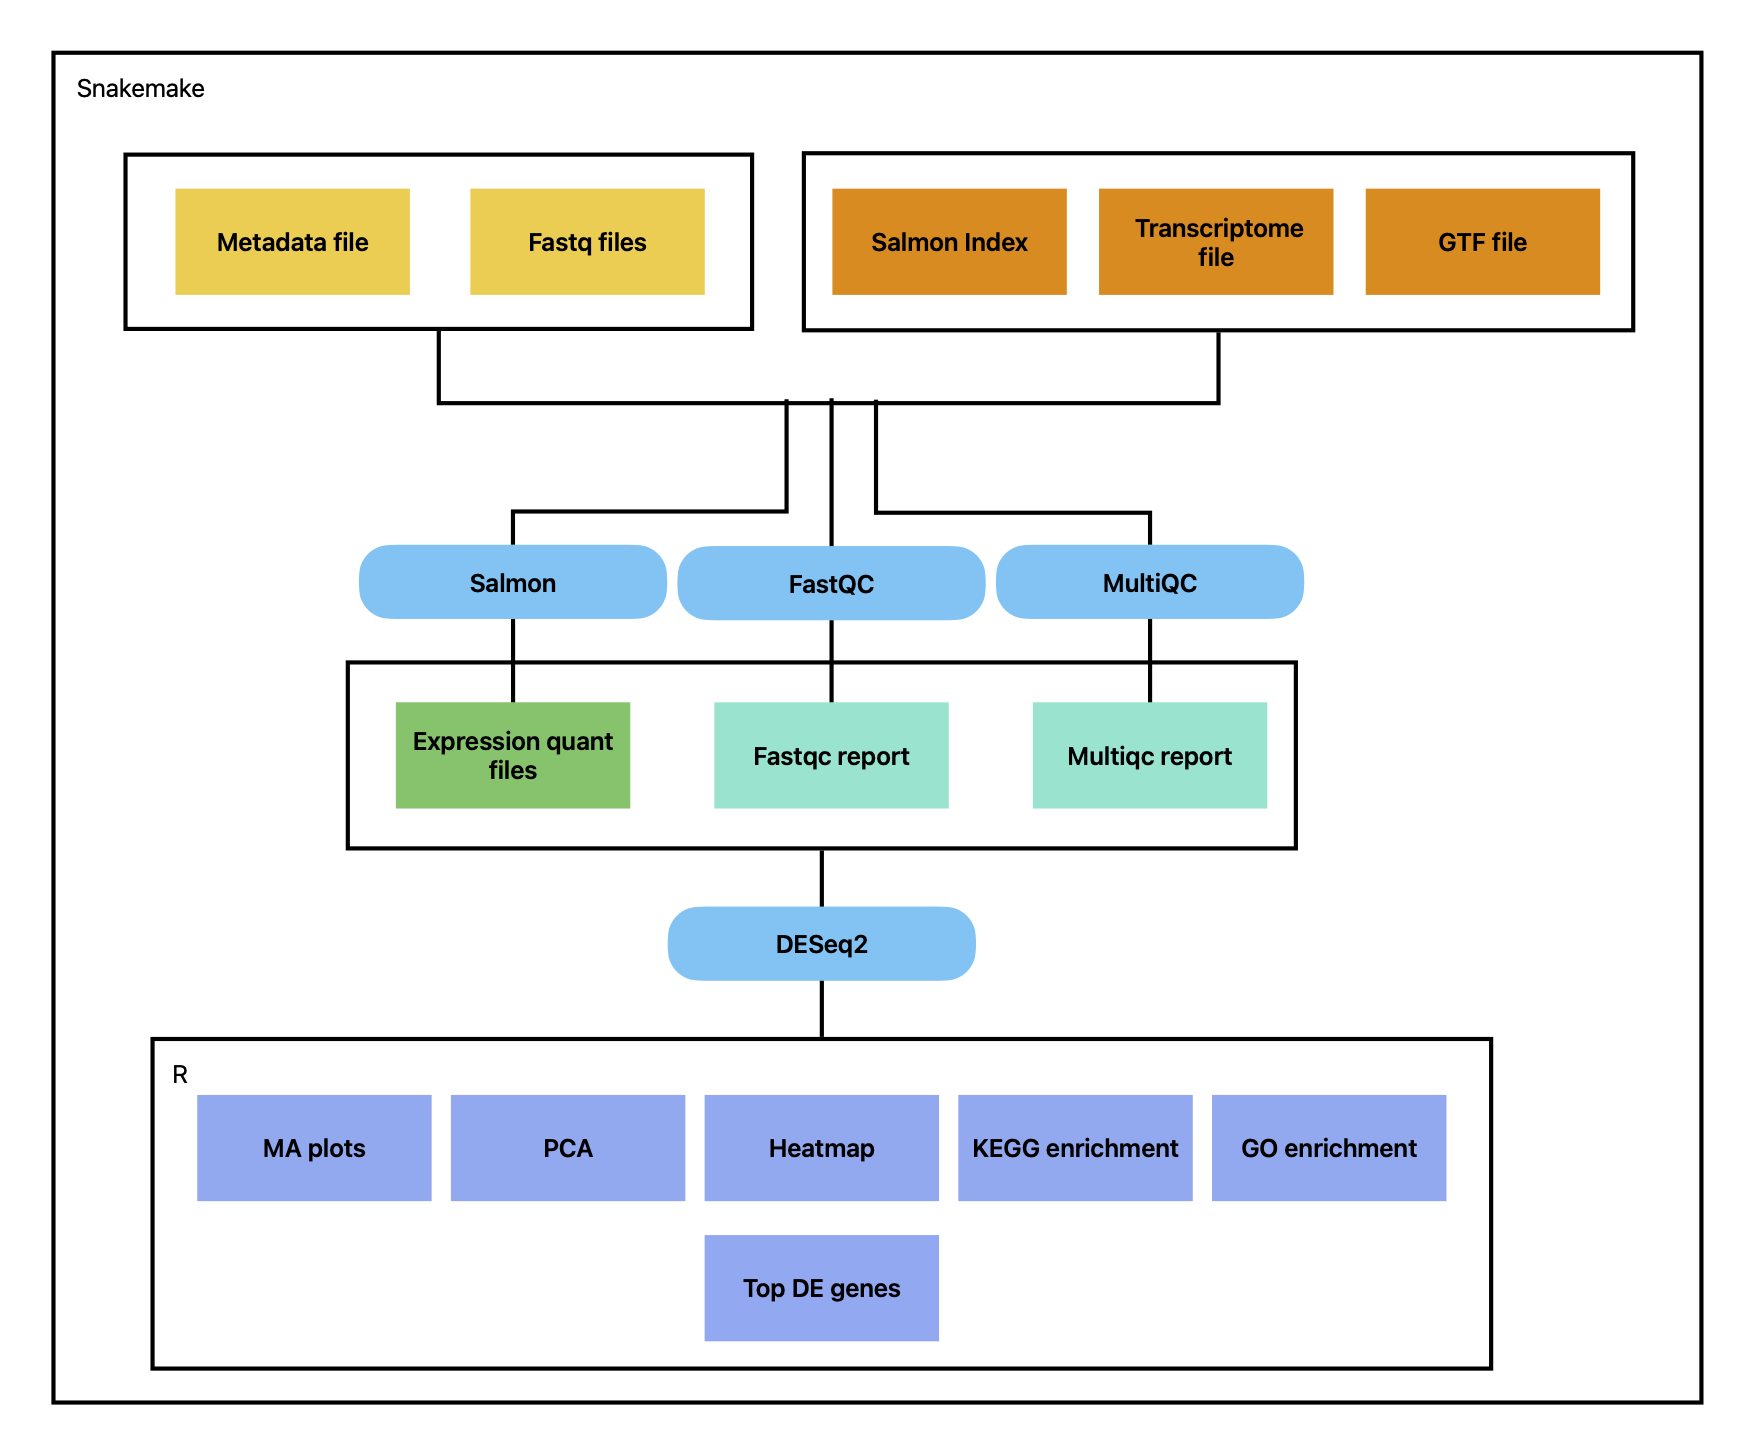
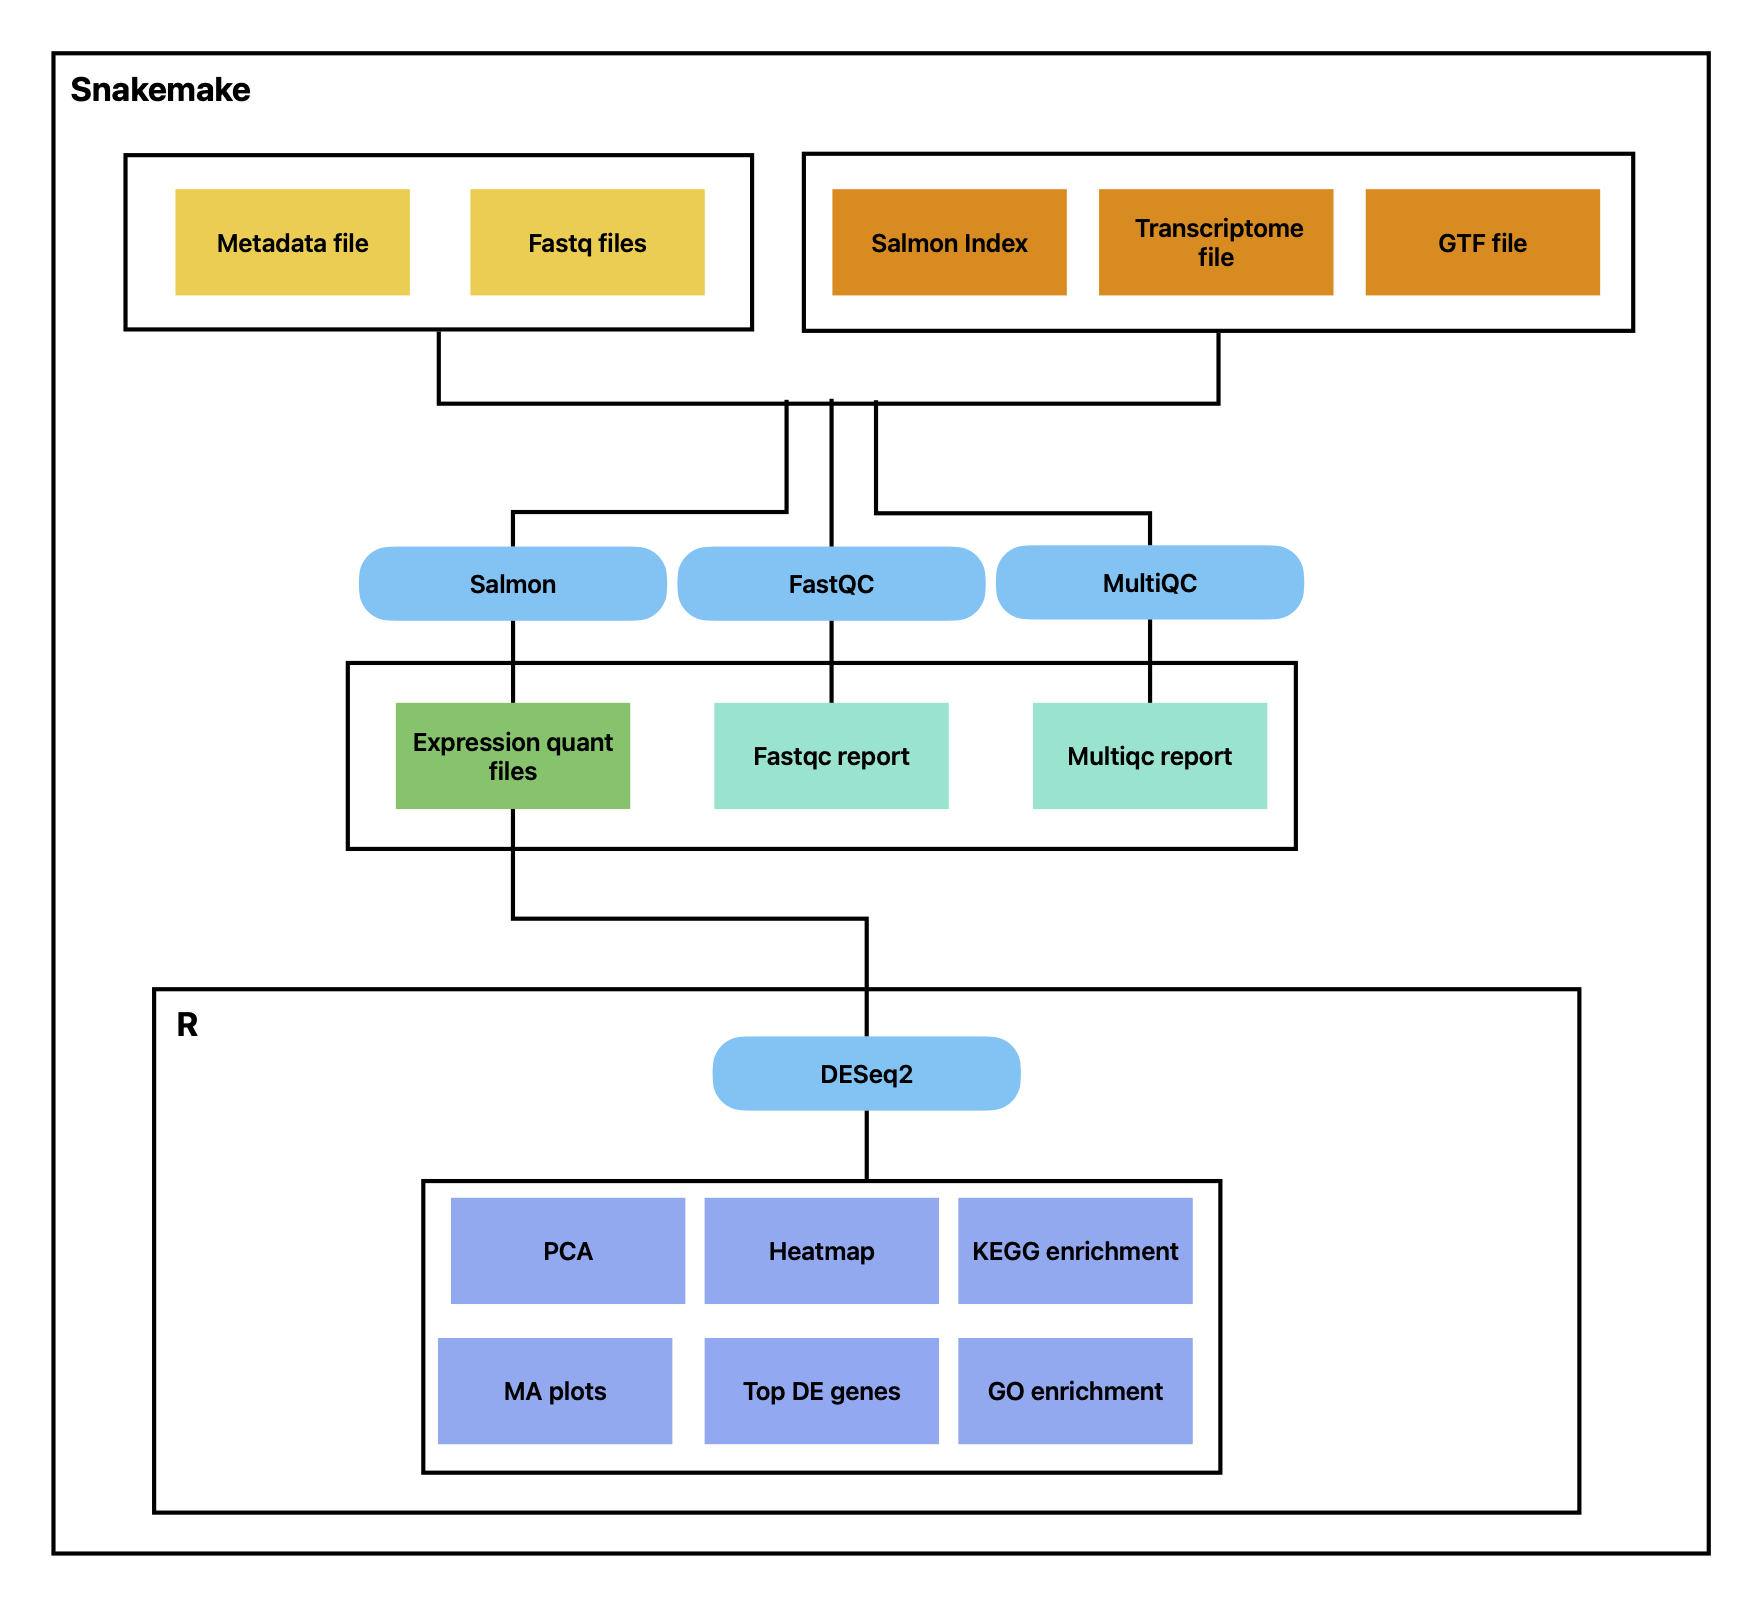
adjustemnt for paired fqs

diff --git a/README.md b/README.md
@@ -5,7 +5,7 @@
 - Conda, Snakemake, R
 
 ## Description: 
-- This pipeline performs end-to-end RNA-seq analysis, starting from raw FASTQ files. It generates quant.sf files using Salmon and then runs a DESeq2 workflow on the quantifications to produce a comprehensive analysis report. The report, delivered in HTML format, includes MA plots, PCA plots, heatmaps, and KEGG/GO enrichment analyses. In addition, the pipeline extracts and reports the top three differentially expressed genes for each contrast (e.g., control vs. condition 1, condition 2, etc.). All steps (including DESeq2) is run in Snakemake. The user only needs to provide 1) complete metadata file e.g file in [samples.xlsx](/metadata/samples_example.xlsx), 2)required raw and reference files and 3) updated [config.yaml] file to reflect the names and path of the files. The results will be generated in /results folder (see organization below) and the DESeq2 analysis and KEGG and GO enrichement results are produced in a HTML report. Example report can be viewed [here](/results/deseq/deseq_analysis_example.html)
+- This pipeline performs end-to-end RNA-seq analysis, starting from raw FASTQ files. It generates quant.sf files using Salmon and then runs a DESeq2 workflow on the quantifications to produce a comprehensive analysis report. The report, delivered in HTML format, includes MA plots, PCA plots, heatmaps, and KEGG/GO enrichment analyses. In addition, the pipeline extracts and reports the top three differentially expressed genes for each contrast (e.g., control vs. condition 1, condition 2, etc.). All steps (including DESeq2) is run in Snakemake. The user only needs to provide 1) complete metadata file e.g file in [samples.xlsx](/metadata/samples_example.xlsx), 2)required raw and reference files and 3) updated [config.yaml] file to reflect the names and path of the files. The results will be generated in /results folder (see organization below) and the DESeq2 analysis and KEGG and GO enrichement results are produced in a HTML report. Example report can be viewed [here](/results/deseq/deseq_analysis_example.html) generated from study [PMID:25730472](https://pubmed.ncbi.nlm.nih.gov/25730472/)
 
 ### Results structure:
 - /results
@@ -74,11 +74,20 @@ conda activate {enviroment_name}  #snakemake-test-1
 
 - Metadata file: A excel file with metadata labelled as metadata.xlsx in metadata/ folder. Example of metadata file added [here](/metadata/samples_example.xlsx)
 - Raw files : Paired or single fastq files in raw_files/
+```
+#To download fastq files from SRA, you can use script scripts/download_sra_files.sh
+$/scripts bash download_sra_files.sh <sraAcc.txt> </raw_files> 
+#sraAcc : should be text file with one sra accession per one line
+#raw_files : folder in the /RNA_pipeline
+```
 - Reference files : gtf file and transcript file in ref_files/
 - Intermediate file: Salmon index file in ref_files/
-> [!Note]
-> To generate Salmon index file please use the bash script from /generate_references
-
+```
+#To generate Salmon index file you can use the script from scripts/salmon_index.sh
+$/scripts bash salmon_index.sh <transcript_file> <salmon_index_prefix>
+#transcript_file : cdna file
+#salmon_index_prefix: prefix for salmon index e.g salmon_index_mm10
+```
 ### 10. Update config file
 
 ```
@@ -86,13 +95,18 @@ vi config.yaml
 ```
 > Update the necessary path for required paths and add sample names. 
 
-### 10. Do a dry-run
+### 11. Use the correct Snakefile
+
+- If you have paired fastq files, replace the RNA_pipeline/Snakefile with paired_fastq/Snakefile in the parent folder
+- If you have single end fast file, don't need to change anything
+
+### 12. Do a dry-run
 ```
 snakemake -n
 ```   
 > Correct any errors or open issues for any format errors
 
-### 11. Run Snakemake 
+### 13. Run Snakemake 
 ```
 snakemake --cores <no. of cores> #e.g. snakemake --cores 6
 ```
